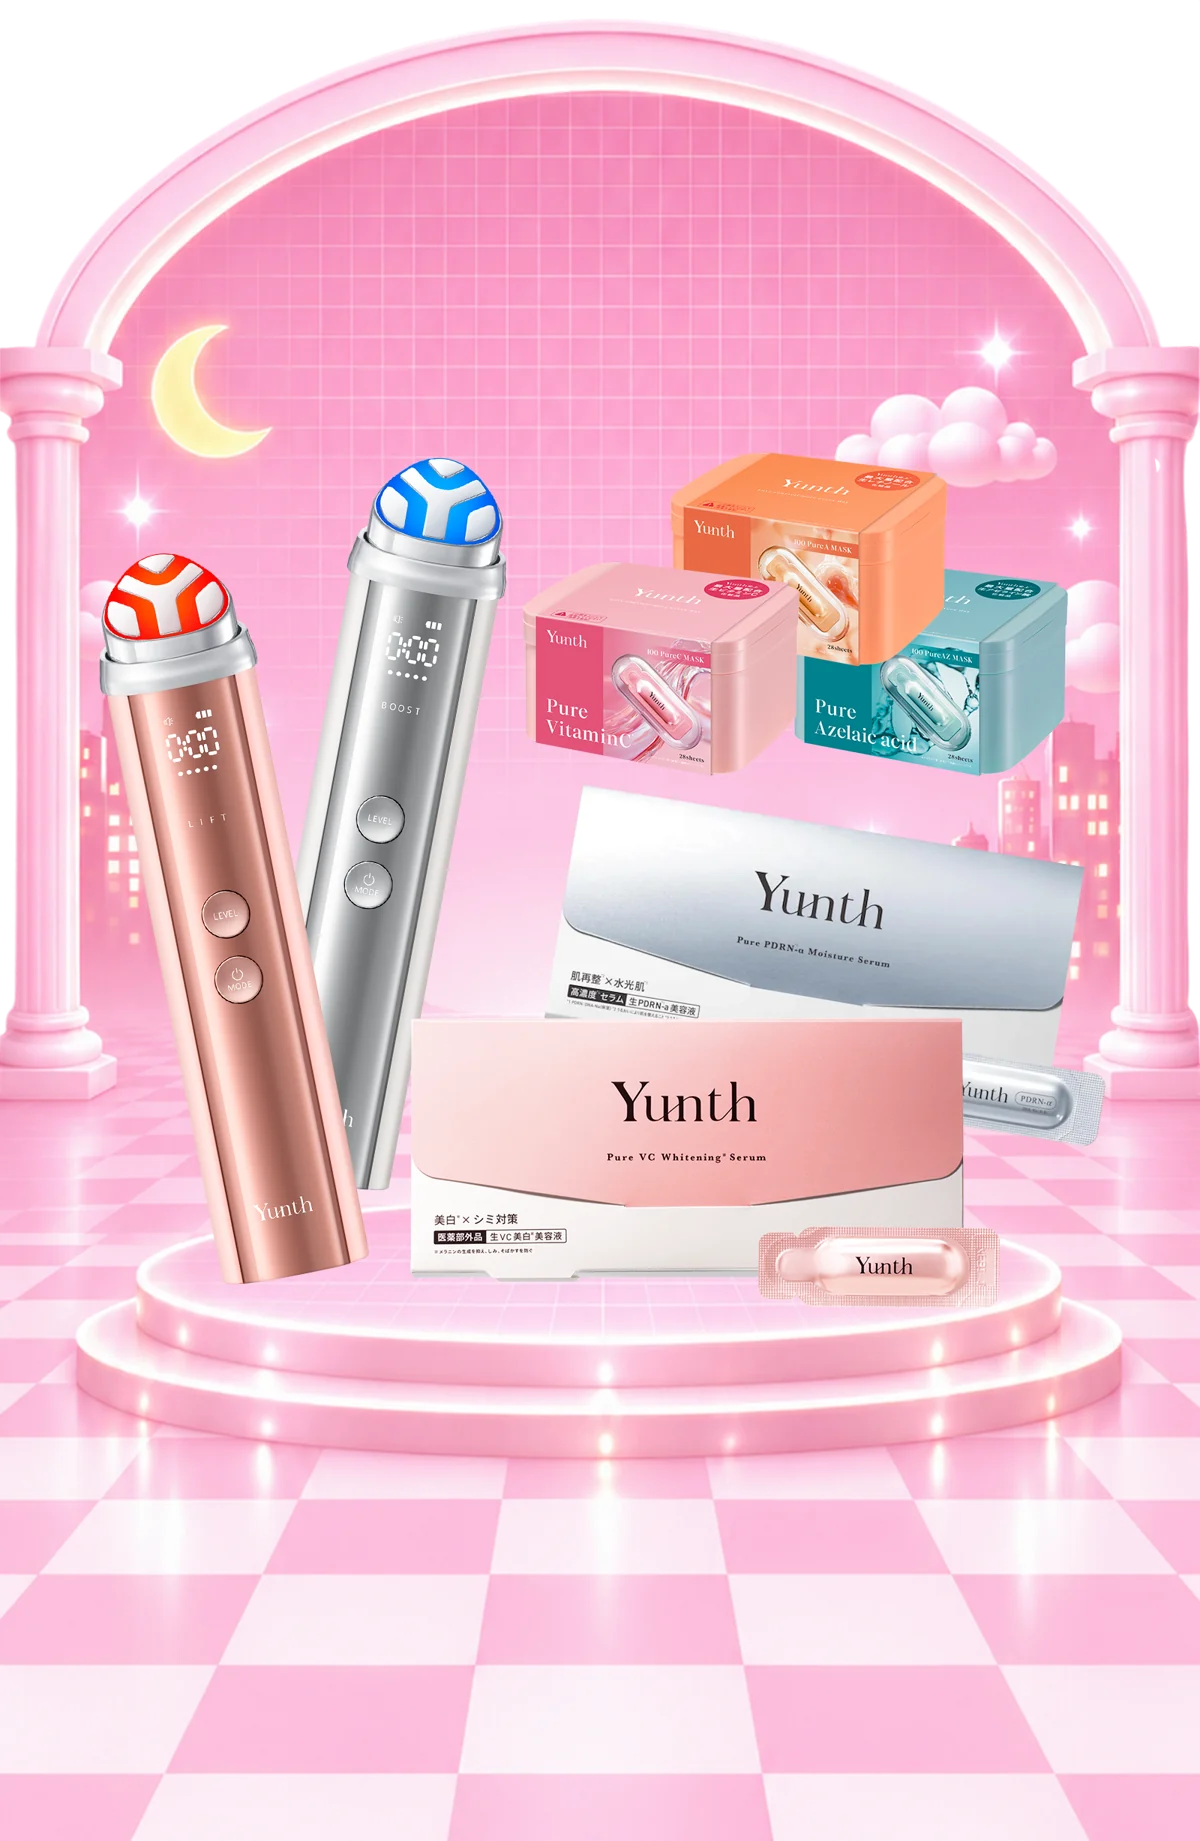
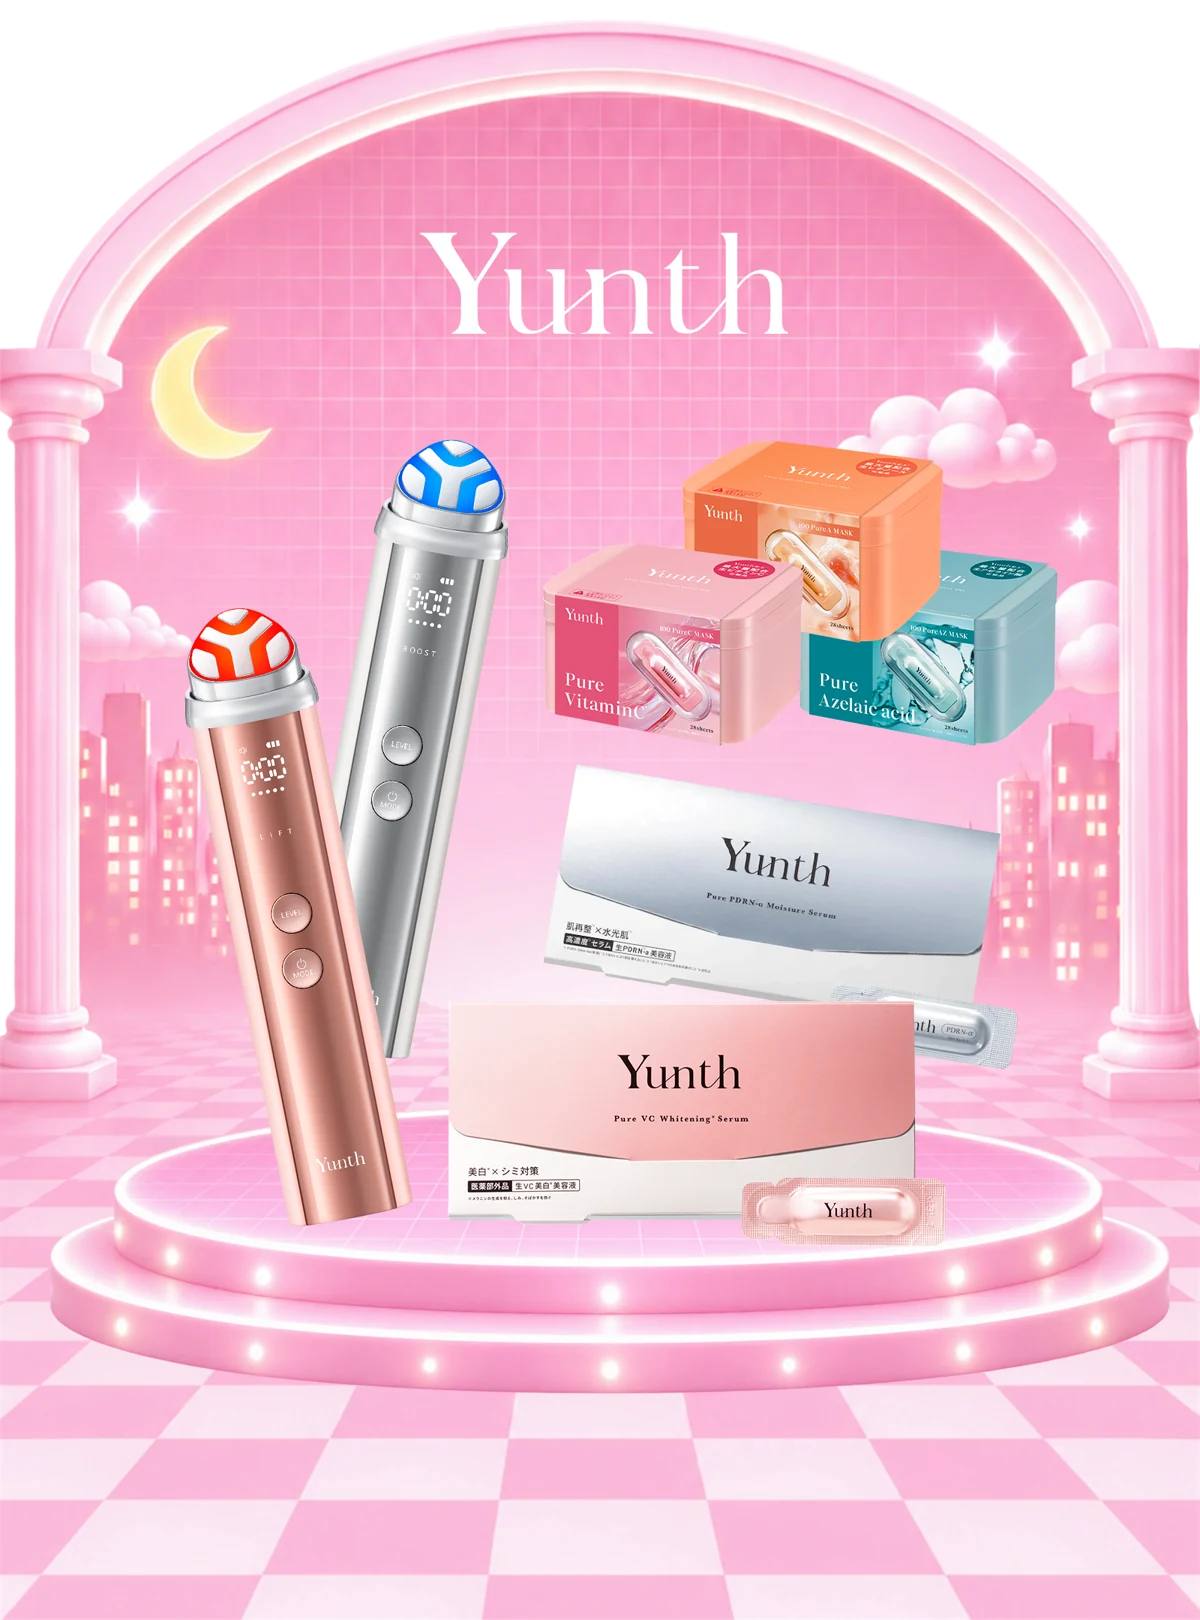
feat: FV画像を差し替え、ネオン看板のYunthを外し、看板とFV画像を近づける

diff --git a/index-pink.html b/index-pink.html
@@ -603,7 +603,9 @@ body{background:var(--void)}
 @media (min-width:768px){.t-grid{grid-template-columns:repeat(4,1fr);gap:14px}}
 /* FV: 商品を合成済みの画像1枚に差し替え（ネオンの看板はそのまま） */
 .fv{aspect-ratio:1200/1680}
-.fv-copy{top:123cqw}
+.fv-copy{top:118cqw}
+/* ネオンの看板とFV画像を近づける */
+.neon-top{padding-bottom:4px}
 /* 区切りの線をすべて同じ細いネオンの線に */
 .deal-sub{border-top:0}
 .deal-sub::before{content:"";position:absolute;top:0;left:12%;right:12%;height:2px;border-radius:2px;background:#ffd3e2;box-shadow:0 0 4px #ff3d7f,0 0 10px #ff3d7f,0 0 20px rgba(255,61,127,.6)}
@@ -724,7 +726,6 @@ body{background:var(--void)}
       <use href="#p-low" stroke="#ffd9e6" stroke-width="2.2"/>
     </g>
 
-    <image href="images/logo.png" x="325" y="56" width="150" height="50"/>
 
     <!-- BLACK は白い管 -->
     <g class="lit-1" fill="none" stroke-linejoin="round">
@@ -745,7 +746,7 @@ body{background:var(--void)}
 
 <!-- ▼ FV: ピンクのステージに美顔器と美容液 -->
 <header class="fv">
-  <img class="fv-bg" src="images/fv-main.webp" alt="美顔器 Deep Boost、生VC美白美容液、生PDRN美容液、ピュアマスク" width="1200" height="1841">
+  <img class="fv-bg" src="images/fv-main.webp?v=2" alt="Yunth 美顔器 Deep Boost、生VC美白美容液、生PDRN美容液、ピュアマスク" width="1200" height="1620">
   <div class="fv-copy">
     <a class="period" href="#vc"><span><b>11/19</b>(木) 10:00</span><svg class="arrows" viewBox="0 0 34 12" role="img" aria-label="から"><path d="M0 0l8 6-8 6zM13 0l8 6-8 6zM26 0l8 6-8 6z"/></svg><span><b>11/26</b>(木) 9:59</span></a>
   </div>
